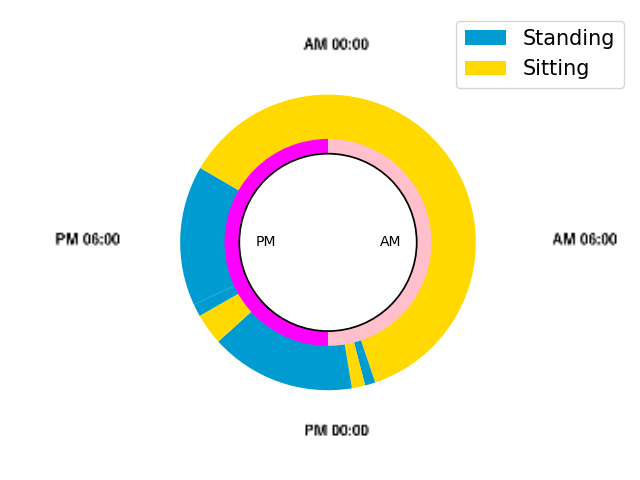
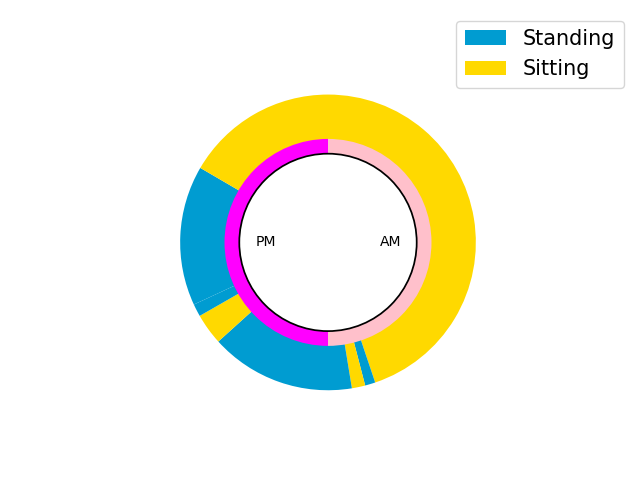
colorlist add

diff --git a/src/SlackAPI/SlackAPI_class.py b/src/SlackAPI/SlackAPI_class.py
@@ -130,7 +130,7 @@ class SlackAPI:
         centre_circle = plt.Circle((0,0),0.6,color='black', fc='white',linewidth=1.25)
         fig = plt.gcf()
         fig.gca().add_artist(centre_circle)
-        plt.legend(st,bbox_to_anchor=(1.3, 1.1), loc='upper right', borderaxespad=0, fontsize=15)
+        plt.legend(st,bbox_to_anchor=(1.3, 1.1), loc='upper right', labelcolor=colorlist_time,borderaxespad=0, fontsize=15)
         print("Sitting Graph created!")
         #save graph
         file_path = "Sitting_Graph.png"
@@ -195,7 +195,7 @@ class SlackAPI:
         centre_circle = plt.Circle((0,0),0.6,color='black', fc='white',linewidth=1.25)
         fig = plt.gcf()
         fig.gca().add_artist(centre_circle)
-        plt.legend(st,bbox_to_anchor=(1.3, 1.1), loc='upper right', borderaxespad=0, fontsize=15)
+        plt.legend(st,bbox_to_anchor=(1.3, 1.1), loc='upper right',labelcolor=colorlist_time, borderaxespad=0, fontsize=15)
         print("Ventilation Graph created!")
         #save graph
         file_path = "Ventilation_Graph.png"
